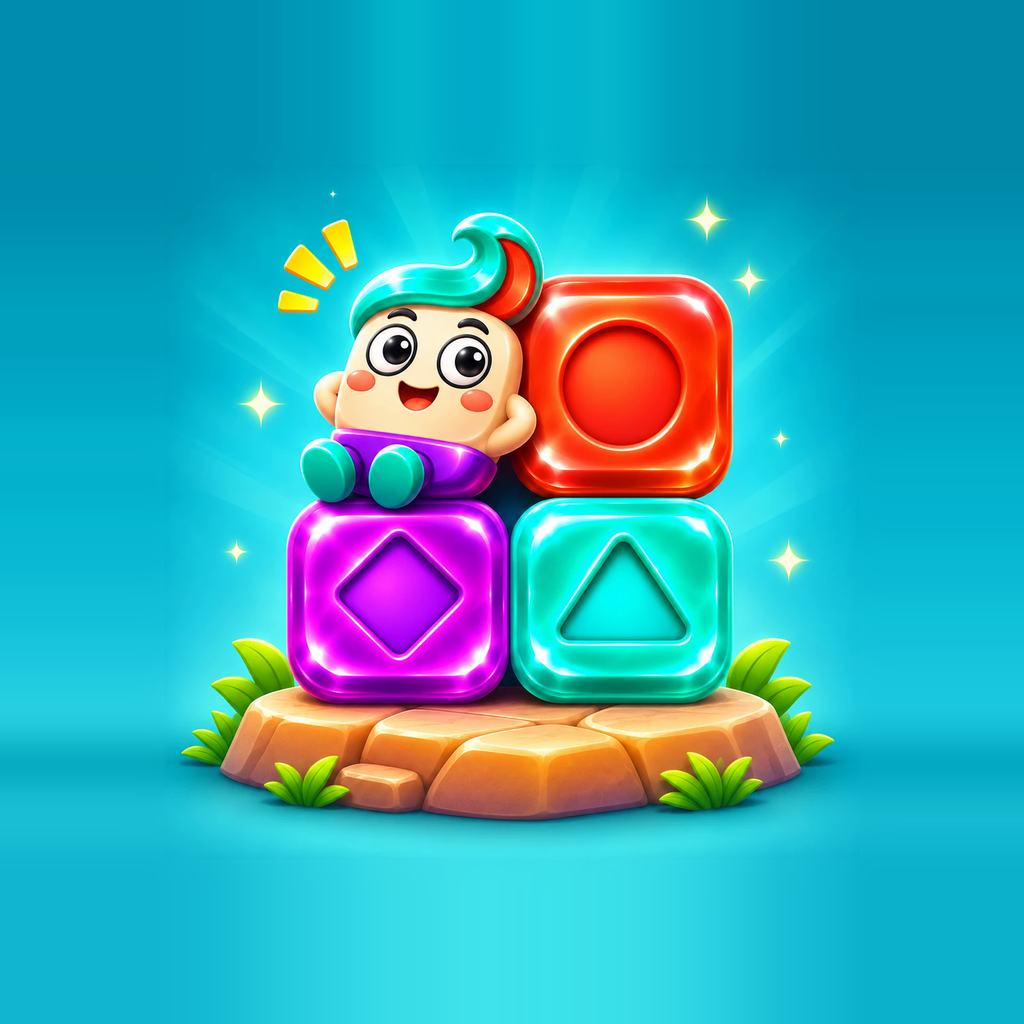
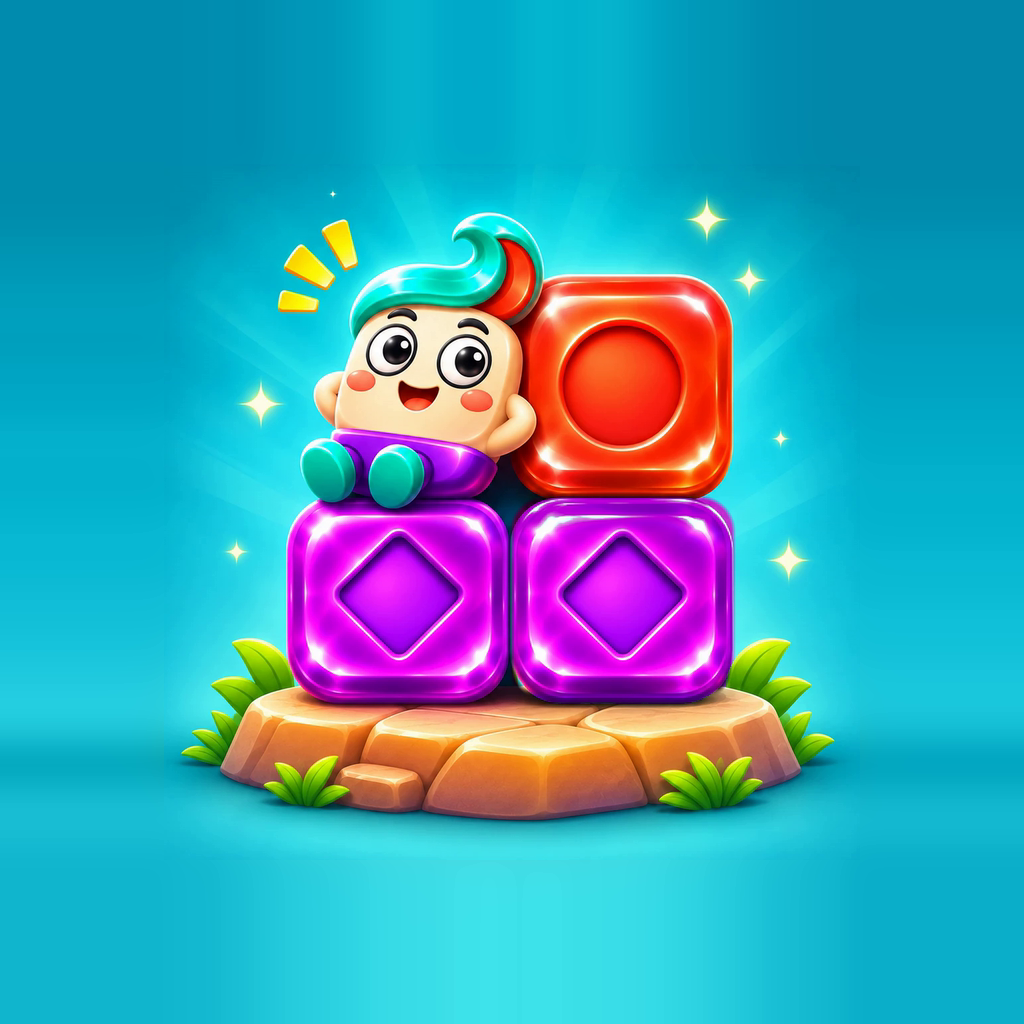
İkon v5: turkuaz taş yerine mor baklava; 9 dilde mağaza görselleri notu

diff --git a/docs/DURUM.md b/docs/DURUM.md
@@ -3,6 +3,8 @@
 Son güncelleme: 2026-11-18. Oyunun tam tanımı: [OYUN.md](OYUN.md). Kararlar: [KARARLAR.md](KARARLAR.md).
 
 ## Şu an
+- **2026-11-18: İkon v5 — turkuaz üçgen yerine mor baklava** (kullanıcı: "Oyun uygulama iconundaki turkuaz taşı mor taşımız ile değiştirebilir misin" → "Mor baklava"). Kaynak `docs/varliklar/gorseller/arayuz/uygulama-ikonu-v5.png`: v4'te sağ alttaki turkuaz taş taş şekliyle sınırlı renk kaydırmayla mora çevrildi, ortasına soldaki mor baklavanın ayakkabı altında kalmayan kısmı yumuşak maskeyle kopyalandı (yapay zekâ aracı yok; Higgsfield askıda). Yeniden üretilen: `app-icon.png`, `app-icon-legacy.png`, `app-icon-bg.png` (ortada 696, kenar uzatma + bulanıklık), `notify-large.png`, `docs/varliklar/facebook/app-icon-1024/16.png`. v4 dosyaları arşivde `ikon_v4_2026-11-18`. Mağaza ikonları güncellenmedi.
+- **2026-11-18: Mağaza görselleri 9 dilde** (kullanıcı: "diğer dilleri de ekleyelim. Yeni mağaza görselleri oluşturalım"). Sahne stili, Android 1080×1920, yeni arka planlar ve sarmaşıkla: `docs/varliklar/magaza/android_sahne/<tr,en,es,de,it,fr,ja,ko,ar>/01–06` (`KATKAT_STORE_STYLE=sahne KATKAT_STORE_DEVICES=android KATKAT_STORE_LANGS=… tools/unity.ps1 capture-store`; ham ve sahne çıktısı `Logs/magaza`). Aynı çekim düz stili `docs/varliklar/magaza/android/` altına da yazdı; eski Android görselleri arşivde `magaza_android_2026-11-18`. Başlıklar it/fr/ko yeni, ana dili konuşan biri kontrol etmedi. Mağazalara yüklenmedi.
 - **2026-11-18: Ataş → sarmaşık** (kullanıcı: "Ataç olmasın ataç kötü duruyor" → "Sarmaşık"). Kalın (2 vuruş) / ince (1 vuruş) sarmaşık, vuruşta dönerek düşen yapraklar (`BoardView.LeafBurst`), bağlılarda grup renginde çiçek. Görseller `Editor/VineArt.cs` ile çizildi (`tools/unity.ps1 vine-art` → `Resources/PremiumV6/tripo/vine-thick|thin|leaf|flower.png`); Higgsfield hesabı askıya alınmış olduğundan yapay zekâ görseli üretilemedi. Metinler 9 dilde (intro/toast/tur). Tahtada genişlik 1,12. Videolar `Logs/captures/sarmasik_b38.mp4`, `sarmasik_b501.mp4`.
 - **2026-11-18: Huawei sıralaması (REST), otomatik puan, kayıt hatırlatması, doğal tempo, renkli yıldırım** (kullanıcı: "huawei için yeni bir versiyon çıkaracağız … minör"; "animasyonlar … çok hızlı olup bitiyor … ağır çekim gibi olmayacak doğal akışı gibi"; "animasyonların tamamını doğal yavaşlat. Yıldırımı da patlayan taşın renginde ve duman çıkıyormuş gibi olsun şimşek çizgilerinden"; "Oyuncunun mutlaka kayıt yaptırması hatırlatılsın"; Huawei için "REST ile yapalım, Firebase'in API'si var onu kullanalım"; "Huawei'de oyunun adı sadece Stone Burst … burada da yazsın"; "diğer dilleri de ekleyelim. Yeni mağaza görselleri oluşturalım").
   - Tempo: `Motion.Pace = 0.72` — tahta olay planı ve soyulmalar bu oranla ilerler (her şey ~%39 uzun); parçacıklar gerçek zamanla akar (ağır çekim görünmez). `BoardView.Advance` / `PeelDirector.Advance` artık gerçek ms alır.

diff --git a/docs/KARARLAR.md b/docs/KARARLAR.md
@@ -223,3 +223,4 @@ Eski ayrıntılı karar günlüğü arşivde (`KatKat_Arsiv_2026-11-06/docs/KARA
 - **2026-11-18 — Sıralama puanı kendiliğinden yazılır, kayıt hatırlatılır** (kullanıcı: "Bir kullanıcı ayarlara girmez ise ömür boyu sıralamada diğer insanlara görünemeyecek … mutlaka kayıt yaptırması hatırlatılsın"). Girişliyken her kazanılan bölümden sonra yazılır. Kayıtsıza 20. bölümden itibaren pencere (Kayıt ol / Sonra; +15, +25, +40, sonra +100 bölümde yeniden) ve kupa düğmesinde uyarı noktası. Hesabını silene sorulmaz.
 - **2026-11-18 — AppGallery'de sıralama Firebase REST ile** (kullanıcı: "REST ile yapalım, Firebase'in API'si var onu kullanalım"). Anonim Firebase hesabı, Android/iOS ile ortak liste; ad "Oyuncu NNNN" (oyuncu adı girişi yok: dünya listesinde denetimsiz ad istenmedi; istenirse ileride). Bulut kaydı yok. 2026-11-11'deki "AppGallery'de hesap ve sıralama gizli" kararının yerini alır.
 - **2026-11-18 — Ataş yerine sarmaşık** (kullanıcı: "ben bu ataçı işlev olarak beğeniyorum fakat ataçla çok bağdaştıramıyorum … Ataç olmasın ataç kötü duruyor" → seçenekler arasından "Sarmaşık"). Kural aynı (seçilemez, yanında soyma 1–2 vuruş, bağlılar birlikte). Görsel: kalın sarmaşık (2 vuruş) / ince (1 vuruş), vuruşta yapraklar saçılır; bağlı grup = aynı renk çiçek (eski renk tonu kalktı). Görseller kodla çizildi (`Editor/VineArt.cs`, `tools/unity.ps1 vine-art`; Higgsfield hesabı askıda); daha iyi bir görsel gelirse `PremiumV6/tripo/vine-*.png` değiştirilir. Kod içi adlar (clip) değişmedi.
+- **2026-11-18 — İkon v5** (kullanıcı: turkuaz taş yerine "Mor baklava"). İkonda alt sırada iki mor baklava, üstte mercan daire.

diff --git a/docs/OYUN.md b/docs/OYUN.md
@@ -215,7 +215,7 @@ Aşağısı v7 dönemi (arşiv bilgisi): Bölümler `LevelLab rebuild` (v7) ile 
 - **Ayarlar:** Resimsiz; turkuaz→krem renk geçişi, süzülen kabarcıklar. Krem kartta Ses ve Titreşim anahtarları, Dil (dokuz dil, her biri kendi yazısıyla), kısa not; altta sürüm. Dil değişince ekranlar yeni dille yeniden kurulur.
 - **Yazı tipi:** Nunito ExtraBold (başlık, düğme, sayılar) ve Nunito SemiBold (açıklama), OFL lisanslı. Arapça için Noto Sans Arabic, Japonca/Korece için Noto Sans KR yedek fontları. Hap düğmelerde yazı yüksekliğin ~%32'si, uzun metin sığana dek küçülür.
 - **Maskot:** Kristal maskot; gözleri etrafa bakar, göz kırpar; büyük hamle, özel taş ve yıldızda zıplar; son 1–3 hamlede endişelenir.
-- **Uygulama ikonu (2026-11-17):** Turkuaz zemin, taş platform üstünde gülen maskot + mor (baklava), mercan (daire), turkuaz (üçgen) taşlar (`docs/varliklar/gorseller/arayuz/uygulama-ikonu-v4.png`; 2026-11-18: objeler ~%20 büyütüldü). Android uyarlanabilir ikonda orijinal görsel ortada %68, dışı kenar uzatma. Bildirim büyük simgesi aynı görsel.
+- **Uygulama ikonu (2026-11-17):** Turkuaz zemin, taş platform üstünde gülen maskot + iki mor (baklava) ve mercan (daire) taş (`docs/varliklar/gorseller/arayuz/uygulama-ikonu-v5.png`; 2026-11-18: objeler ~%20 büyütüldü, sağ alttaki turkuaz üçgen mor baklava oldu). Android uyarlanabilir ikonda orijinal görsel ortada %68, dışı kenar uzatma. Bildirim büyük simgesi aynı görsel.
 
 ## 8. Proje yapısı
 
